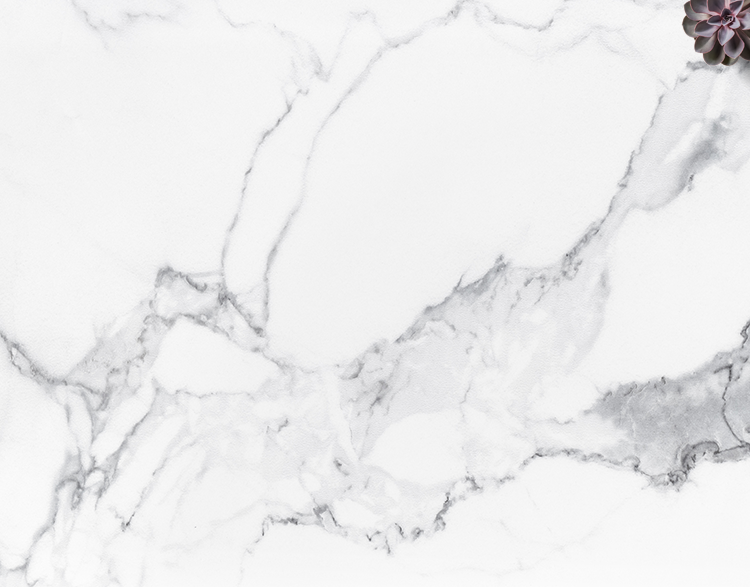
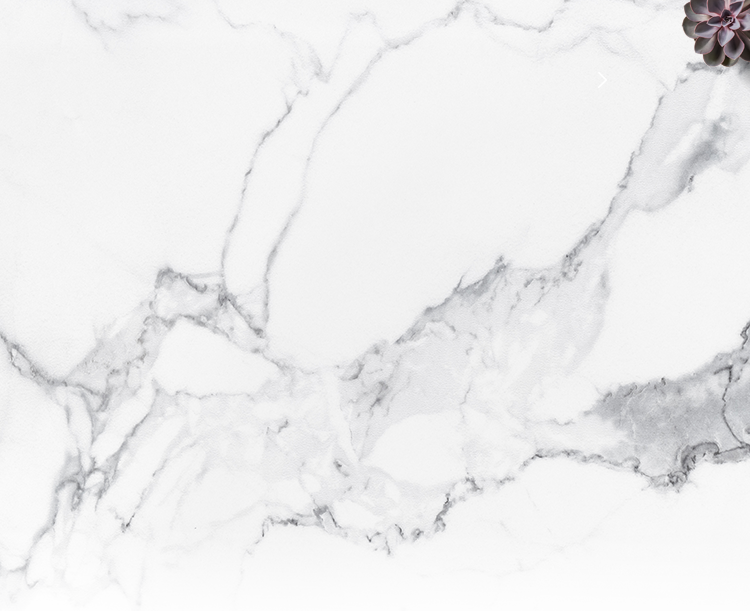
首页头部图片调整

diff --git a/src/app/index/index.component.css b/src/app/index/index.component.css
@@ -1,7 +1,7 @@
 .headBox{
   position: relative;
   width: 100%;
-  height: 5.87rem;
+  height: 6.11rem;
   display: flex;
   flex-direction: column;
   align-items: center;
@@ -60,8 +60,8 @@
   line-height: 0.26rem;
 }
 .headBg{
-  width: 7.5rem;
-  height: 5.87rem;
+  width: 100%;
+  height: 6.11rem;
   position: absolute;
   left: 0;
   top: 0;
@@ -70,7 +70,7 @@
 .headSwiper .swiper-container {
   width: 7rem;
   height: 3.6rem;
-  margin-top: 0.3rem;
+  margin-top: 0.33rem;
   -moz-box-shadow:0rem 0.08rem 0.1rem #AEAEB0, 0.02rem 0rem 0.05rem #AEAEB0, -0.02rem 0rem 0.05rem #AEAEB0;
   -webkit-box-shadow:0rem 0.08rem 0.1rem #AEAEB0, 0.02rem 0rem 0.05rem #AEAEB0, -0.02rem 0rem 0.05rem #AEAEB0;
   box-shadow:0rem 0.08rem 0.1rem #AEAEB0, 0.02rem 0rem 0.05rem #AEAEB0, -0.02rem 0rem 0.05rem #AEAEB0;
